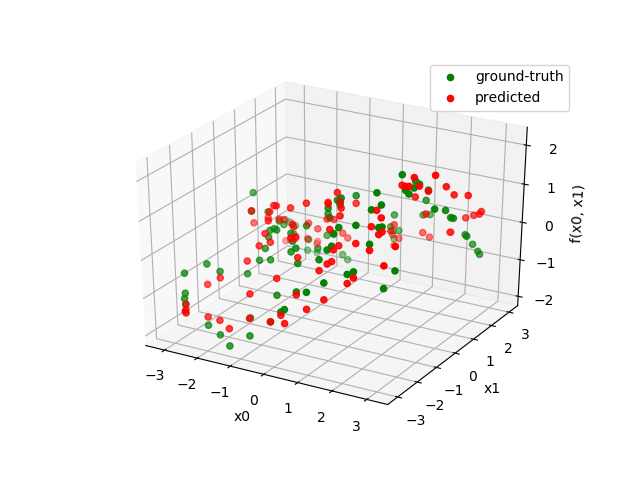
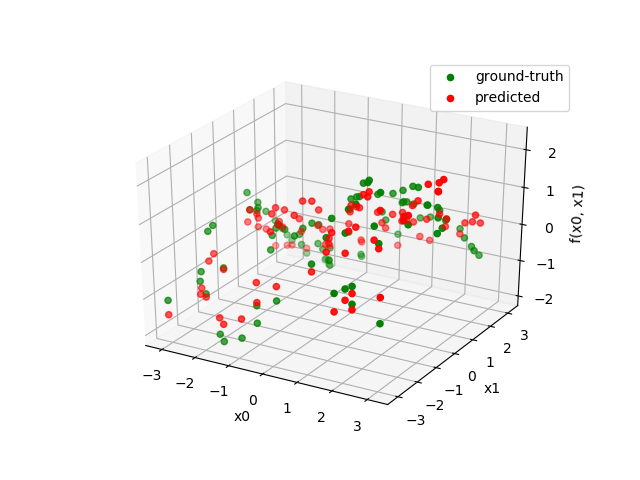
update

diff --git a/test1_nnabla.py b/test1_nnabla.py
@@ -22,7 +22,7 @@ nn.clear_parameters()
 batchsize = 100
 xdim = 2
 nlayers = [8,8]
-num_iter = 10000
+num_iter = 1000
 
 x = nn.Variable([batchsize, xdim], need_grad=True)
 label = nn.Variable([batchsize, 1], need_grad=True)
